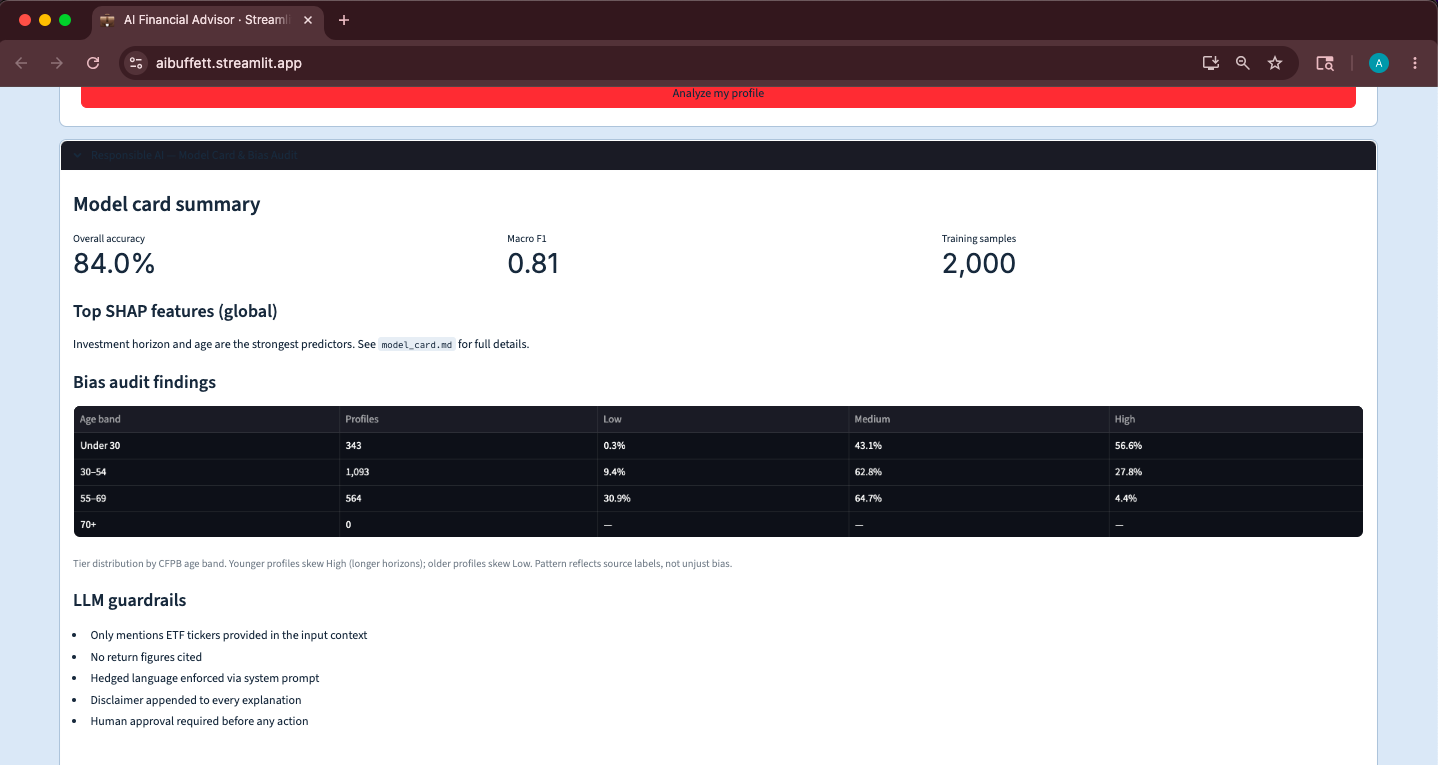
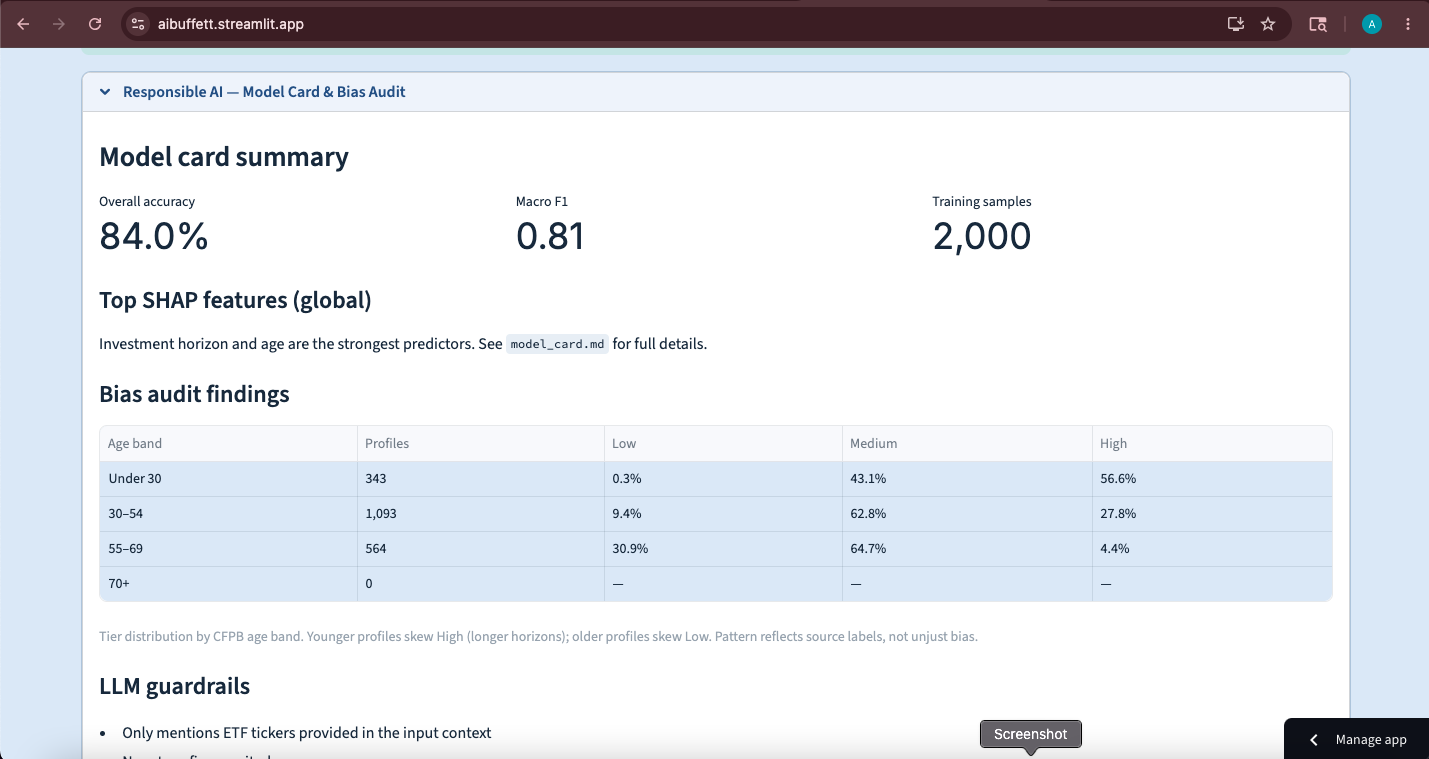
ui: increase small text sizes and add app walkthrough screenshots
Bumped font sizes on ETF cards, explainability factors, and tier
connection boxes so nothing reads too small on screen. Replaced
docs screenshots with fresh captures and added an App Walkthrough
section to the README showing the full user flow.

diff --git a/app.py b/app.py
@@ -214,7 +214,7 @@ st.markdown("""
         margin-bottom: 2px;
     }
     .etf-name {
-        font-size: 0.78rem;
+        font-size: 0.9rem;
         color: #556677 !important;
         margin-bottom: 14px;
         min-height: 2.4em;
@@ -224,7 +224,7 @@ st.markdown("""
         display: inline-block;
         background: #dce8f5;
         color: #1b3a5c !important;
-        font-size: 0.7rem;
+        font-size: 0.8rem;
         font-weight: 600;
         padding: 3px 10px;
         border-radius: 4px;
@@ -239,17 +239,17 @@ st.markdown("""
         margin-bottom: 2px;
     }
     .etf-price-label {
-        font-size: 0.7rem;
+        font-size: 0.8rem;
         color: #888 !important;
         text-transform: uppercase;
         letter-spacing: 0.05em;
         margin-bottom: 12px;
     }
     .etf-rationale {
-        font-size: 0.75rem;
+        font-size: 0.88rem;
         color: #667788 !important;
         margin-top: 10px;
-        line-height: 1.4;
+        line-height: 1.5;
         font-style: italic;
     }
 
@@ -556,8 +556,10 @@ if st.session_state.tier_result:
 
     with st.expander("Why did the model predict this tier?", expanded=True):
         st.markdown(
-            "The chart below shows which features pushed your prediction up or down. "
-            "This is our explainability layer — we show the math, not just the answer."
+            '<p style="font-size: 1rem; line-height: 1.6; color: #556677;">'
+            'The chart below shows which features pushed your prediction up or down. '
+            'This is our explainability layer — we show the math, not just the answer.</p>',
+            unsafe_allow_html=True,
         )
         shap_values = st.session_state.tier_result.get("shap_values")
         if shap_values is not None:
@@ -581,17 +583,17 @@ if st.session_state.tier_result:
                 color = "#721c24" if direction == "up" else "#155724"
 
                 st.markdown(f"""
-                <div class="section-box" style="border-left: 4px solid {color}; margin-bottom: 12px; padding: 16px 20px;">
-                    <div style="display: flex; align-items: center; gap: 10px; margin-bottom: 8px;">
-                        <span style="font-size: 1.3rem; color: {color}; font-weight: 700;">{arrow}</span>
-                        <span style="font-size: 1.05rem; font-weight: 600; color: #1a2a3a;">
+                <div class="section-box" style="border-left: 4px solid {color}; margin-bottom: 12px; padding: 18px 22px;">
+                    <div style="display: flex; align-items: center; gap: 10px; margin-bottom: 10px;">
+                        <span style="font-size: 1.4rem; color: {color}; font-weight: 700;">{arrow}</span>
+                        <span style="font-size: 1.15rem; font-weight: 600; color: #1a2a3a;">
                             {display_name}
                         </span>
-                        <span style="font-size: 0.8rem; color: {color}; font-weight: 600; background: {'#f8d7da' if direction == 'up' else '#d4edda'}; padding: 2px 10px; border-radius: 4px;">
+                        <span style="font-size: 0.88rem; color: {color}; font-weight: 600; background: {'#f8d7da' if direction == 'up' else '#d4edda'}; padding: 3px 12px; border-radius: 4px;">
                             pushed toward {direction_label}
                         </span>
                     </div>
-                    <div style="font-size: 0.85rem; color: #556677; line-height: 1.6;">
+                    <div style="font-size: 1rem; color: #556677; line-height: 1.7;">
                         <strong>What it is:</strong> {explanation.get('what', 'N/A')}<br>
                         <strong>How it's scored:</strong> {explanation.get('scoring', 'N/A')}<br>
                         <strong>Why it matters:</strong> {explanation.get('influence', 'N/A')}
@@ -606,11 +608,11 @@ if st.session_state.tier_result:
                 "High": "Your higher risk tier unlocked **growth-oriented ETFs**: large-cap growth, small/mid-cap exposure, and potentially sector-specific or thematic funds. These have higher volatility but stronger long-term growth potential.",
             }
             st.markdown(f"""
-            <div class="section-box" style="border-left: 4px solid #2a5280; margin-top: 16px; padding: 16px 20px;">
-                <div style="font-size: 0.95rem; font-weight: 600; color: #1a2a3a; margin-bottom: 6px;">
+            <div class="section-box" style="border-left: 4px solid #2a5280; margin-top: 16px; padding: 18px 22px;">
+                <div style="font-size: 1.05rem; font-weight: 600; color: #1a2a3a; margin-bottom: 8px;">
                     How this connects to your ETF recommendations
                 </div>
-                <div style="font-size: 0.85rem; color: #556677; line-height: 1.6;">
+                <div style="font-size: 1rem; color: #556677; line-height: 1.7;">
                     {tier_etf_logic.get(tier, '')}
                     Your specific profile details (horizon, income, experience) further personalized which ETFs within this tier were selected for you.
                 </div>

diff --git a/README.md b/README.md
@@ -22,6 +22,33 @@ Buffett AI is a four-layer AI system that takes a user's financial profile, pred
 
 <p align="center"><img src="docs/screenshot-hero.png" alt="Buffett AI — profile input form" width="720"></p>
 
+## App Walkthrough
+
+<p align="center">
+<strong>1. Enter your financial profile</strong><br>
+<img src="docs/screenshot-hero.png" alt="Profile input form" width="720">
+</p>
+
+<p align="center">
+<strong>2. SHAP waterfall — see which features drove the prediction</strong><br>
+<img src="docs/screenshot-shap.png" alt="SHAP waterfall plot" width="720">
+</p>
+
+<p align="center">
+<strong>3. Plain-English explainability for every factor</strong><br>
+<img src="docs/screenshot-explainability.png" alt="What drove this prediction" width="720">
+</p>
+
+<p align="center">
+<strong>4. Model card, bias audit & responsible AI panel</strong><br>
+<img src="docs/screenshot-model-card.png" alt="Model card and bias audit" width="720">
+</p>
+
+<p align="center">
+<strong>5. Bias audit — tier distribution by age band</strong><br>
+<img src="docs/screenshot-bias-chart.png" alt="Bias audit chart" width="720">
+</p>
+
 ## Architecture
 
 The system is built as four independent layers that compose through a shared Streamlit interface: